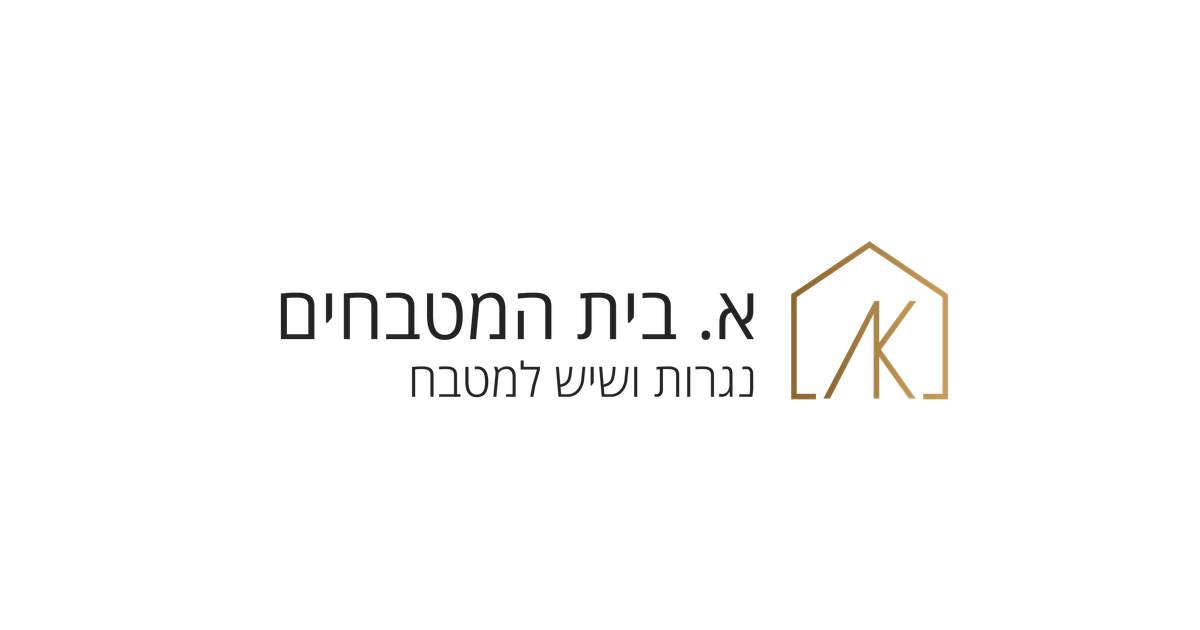
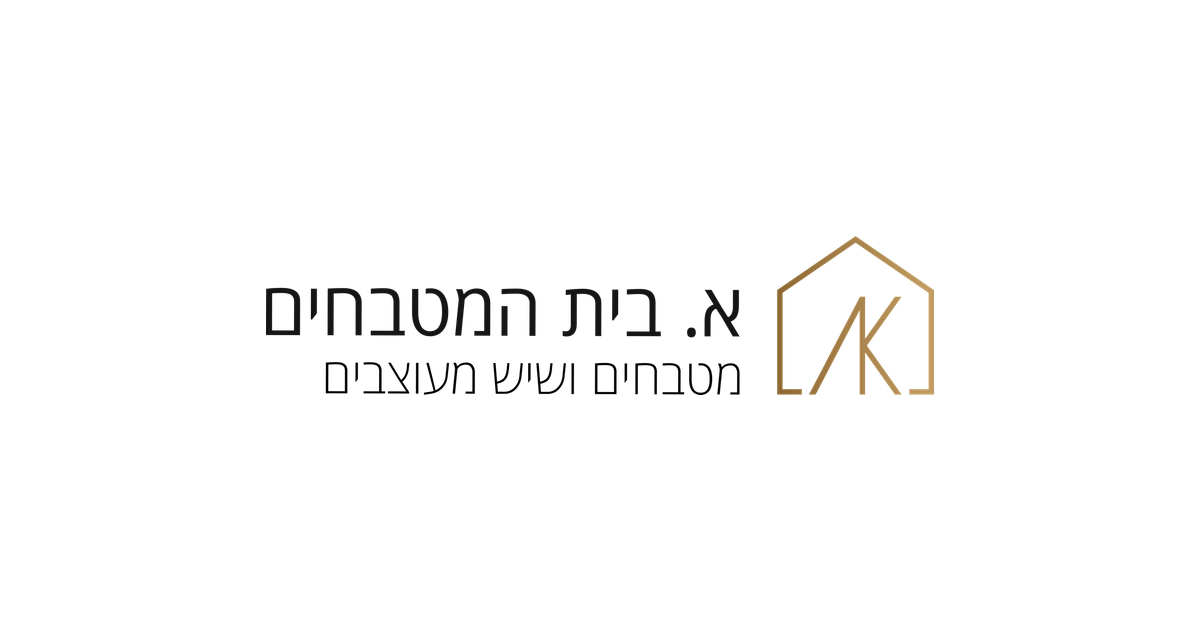
לוגו חדש בכל האתר (מטבחים ושיש מעוצבים)
מ-ABKitchens_logo.pdf של דניאל: גרסה כהה (הדר, אודות) ובהירה (פוטר,
תפריט הטלפון, כרטיסי מאמר, coming-soon) - הטקסט השחור צובע ללבן,
הזהב המדורג נשמר. יחס 4.21 במקום 3.57: width/height עודכנו בכל
הרכיבים, ו-sizes של ההדר ל-220px (נמדד 218 בכל רוחב). תמונת השיתוף
(og/twitter) נבנתה מחדש באותה פריסה.

Changed region(s): [[0.2158, 0.3619, 0.8017, 0.6333]]

diff --git a/components/Header.tsx b/components/Header.tsx
@@ -97,17 +97,18 @@ export default function Header() {
     <header className={`header container-full${isScrolled ? " header--scrolled" : ""}`}>
       <div className="header__bar">
         <Link href="/" className="header__logo" aria-label="א. בית המטבחים - דף הבית">
-          {/* sizes חובה כאן: הקובץ הוא 1640 רוחב, ובלי sizes
-              Next מייצר srcset של 1x/2x בלבד - וה-2x (3280) נופל
+          {/* sizes חובה כאן: הקובץ הוא 1936 רוחב, ובלי sizes
+              Next מייצר srcset של 1x/2x בלבד - וה-2x (3872) נופל
               לדלי 3840. כלומר הדפדפן הוריד לוגו ברוחב 3840 כדי
               להציג אותו ב-185px. עם sizes נוצר srcset מלא והדפדפן
               בוחר מועמד קטן. */}
           <Image
             src="/logo-dark.png"
             alt="א. בית המטבחים"
-            width={1640}
+            width={1936}
             height={460}
-            sizes="(max-width: 700px) 190px, 230px"
+            /* נמדד 19.10 עם הלוגו החדש (יחס 4.21): 218px בכל רוחב */
+            sizes="220px"
             priority
             className="header__logo-img"
           />
@@ -214,7 +215,7 @@ export default function Header() {
               <Image
                 src="/logo.png"
                 alt={site.name}
-                width={1640}
+                width={1936}
                 height={460}
                 sizes="160px"
                 className="mnav__logo-img"

diff --git a/components/About.tsx b/components/About.tsx
@@ -28,7 +28,7 @@ export default function About({ content = about }: AboutProps = {}) {
           <Image
             src={content.logo}
             alt={content.logoAlt}
-            width={1640}
+            width={1936}
             height={460}
             sizes="(max-width: 700px) 200px, 280px"
             className="about__logo"

diff --git a/components/ArticleCard.tsx b/components/ArticleCard.tsx
@@ -33,7 +33,7 @@ export default function ArticleCard({ article }: { article: Article }) {
             <Image
               src="/logo.png"
               alt=""
-              width={1640}
+              width={1936}
               height={460}
               className="acard__logo"
             />

diff --git a/components/Footer.tsx b/components/Footer.tsx
@@ -23,7 +23,7 @@ export default function Footer() {
             <Image
               src="/logo.png"
               alt={site.name}
-              width={1640}
+              width={1936}
               height={460}
               sizes="160px"
               className="footer__logo-img"

diff --git a/app/coming-soon/page.tsx b/app/coming-soon/page.tsx
@@ -35,7 +35,7 @@ export default function ComingSoonPage() {
         <Image
           src="/logo.png"
           alt={site.name}
-          width={1640}
+          width={1936}
           height={460}
           sizes="(max-width: 700px) 220px, 320px"
           className="soon__logo"
